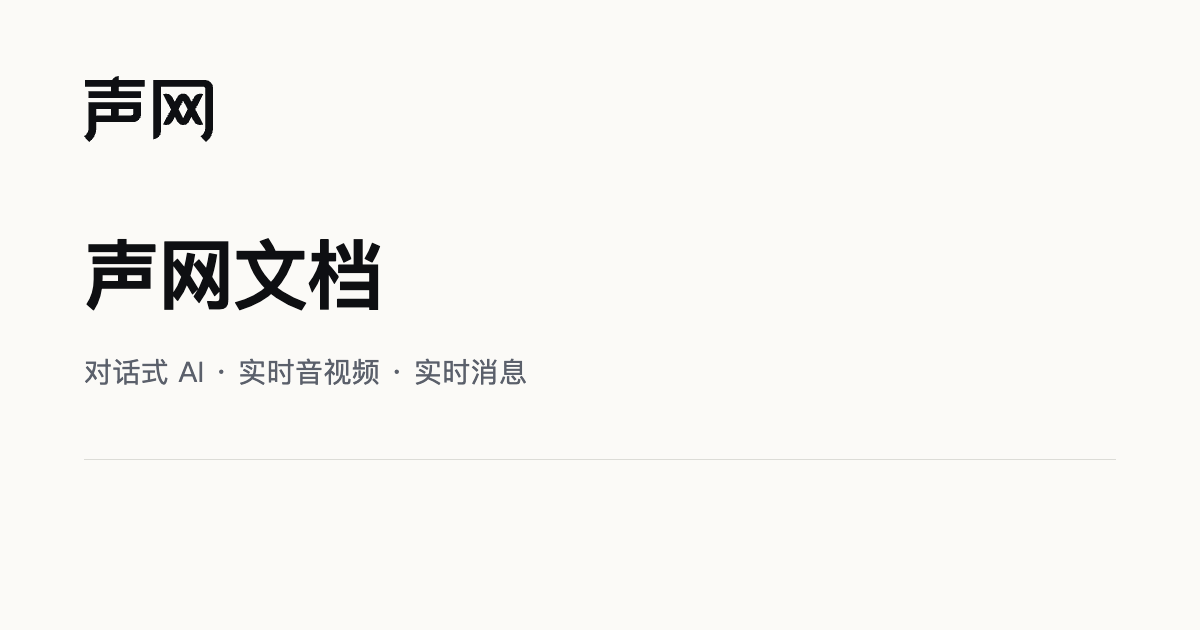
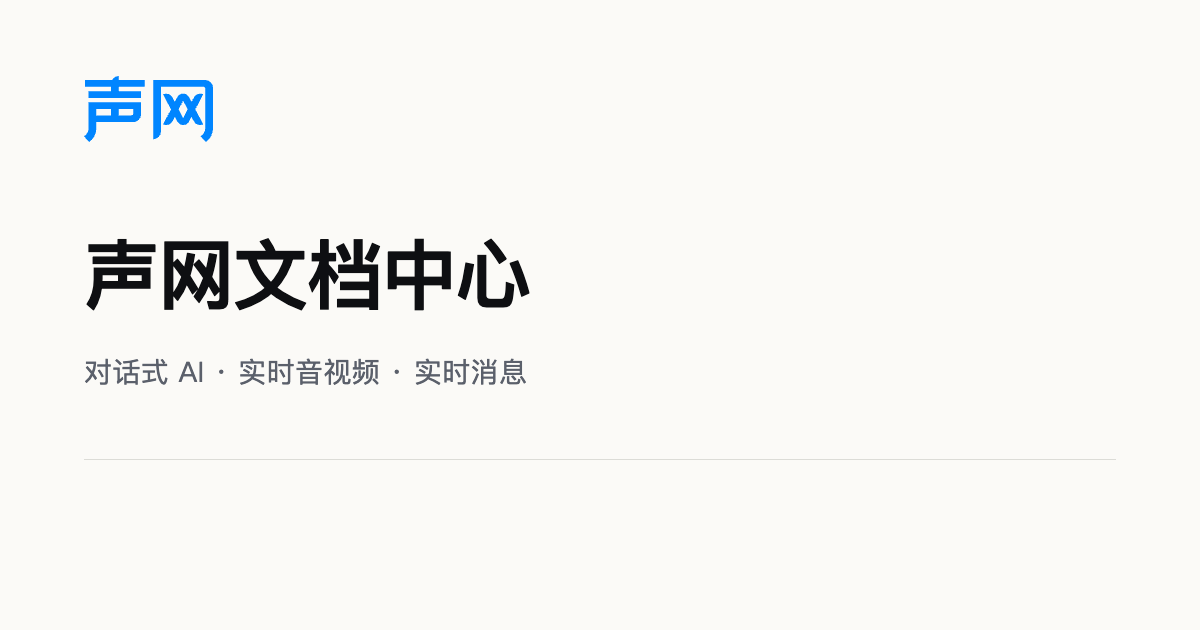
fix: align CN documentation center branding

Changed region(s): [[0.3083, 0.3619, 0.4625, 0.5127], [0.0617, 0.1206, 0.185, 0.2413]]

diff --git a/src/lib/i18n/resources/zh-CN/common.ts b/src/lib/i18n/resources/zh-CN/common.ts
@@ -1,6 +1,6 @@
 const zhCnCommon = {
   app: {
-    name: '声网文档',
+    name: '声网文档中心',
     tagline: '像产品界面一样工作的文档系统',
     endorsement: 'Developer Surface',
   },
@@ -90,7 +90,7 @@ const zhCnCommon = {
   },
   home: {
     eyebrow: '声网开发者文档',
-    title: '声网文档',
+    title: '声网文档中心',
     description: '对话式 AI / 语音通话 / 视频通话 / 互动直播 / 实时消息',
     shellLabel: 'Overview',
     askAi: 'AI 入口',
@@ -252,7 +252,7 @@ const zhCnCommon = {
       platformOverview: {
         title: '声网平台总览',
         description:
-          '声网文档以能力域优先组织，把 AI、RTC、消息、媒体服务和解决方案收敛成稳定的阅读入口，降低首次接入和长期维护的成本。。。',
+          '声网文档中心以能力域优先组织，把 AI、RTC、消息、媒体服务和解决方案收敛成稳定的阅读入口，降低首次接入和长期维护的成本。。。',
         section1: {
           title: '平台能力结构',
           body: '底层是 RTC、RTM、媒体服务等通用能力，上层是对话式 AI、会议、课堂和行业方案。文档应该反映这种分层关系，而不是直接暴露原始仓库目录。',

diff --git a/src/lib/static-seo.test.ts b/src/lib/static-seo.test.ts
@@ -42,24 +42,24 @@ describe('static SEO metadata', () => {
       title: '快速开始',
       url: '/zh-CN/ai/get-started/quick-start',
     });
-    expect(head.meta).toContainEqual({ title: '快速开始 | 声网文档' });
+    expect(head.meta).toContainEqual({ title: '快速开始 | 声网文档中心' });
     expect(head.meta).toContainEqual({
       property: 'og:site_name',
-      content: '声网文档',
+      content: '声网文档中心',
     });
     expect(head.meta).toContainEqual({
       property: 'og:image',
       content: 'https://docs.agora.io/shengwang-docs-og.png',
     });
     const homeHead = createStaticSeoHead({
-      title: '声网文档',
+      title: '声网文档中心',
       url: '/zh-CN/introduction',
     });
-    expect(homeHead.meta).toContainEqual({ title: '声网文档' });
+    expect(homeHead.meta).toContainEqual({ title: '声网文档中心' });
     expect(homeHead.meta).toContainEqual({
       name: 'description',
       content:
-        '声网开发者文档：对话式 AI、实时音视频、实时消息、SDK 下载与 API 参考。',
+        '声网文档中心：对话式 AI、实时音视频、实时消息、SDK 下载与 API 参考。',
     });
   });
 

diff --git a/src/components/docs-shell/DocsContent.test.tsx b/src/components/docs-shell/DocsContent.test.tsx
@@ -154,14 +154,14 @@ describe('DocsContent', () => {
         contentPath="zh-CN/introduction/index.mdx"
         locale="zh-CN"
         markdownUrl="/zh-CN/introduction.md"
-        title="声网文档"
+        title="声网文档中心"
         toc={[{ title: '集成语音智能体', url: '#ai', depth: 2 }]}
       />,
       '/zh-CN/introduction',
     );
 
     expect(await screen.findByTestId('docs-content-body')).toBeInTheDocument();
-    expect(screen.getByRole('heading', { name: '声网文档' })).toHaveClass(
+    expect(screen.getByRole('heading', { name: '声网文档中心' })).toHaveClass(
       'sr-only',
     );
     expect(container.querySelector('article')).toHaveClass('max-w-none');

diff --git a/src/lib/shared.ts b/src/lib/shared.ts
@@ -3,10 +3,10 @@ import { getDefaultDocsLocale, getDocsHomePath } from './site-region';
 export function getAppBranding(locale: string = getDefaultDocsLocale()) {
   return locale === 'zh-CN'
     ? {
-        name: '声网文档',
-        docsLabel: '文档',
+        name: '声网文档中心',
+        docsLabel: '文档中心',
         description:
-          '声网开发者文档：对话式 AI、实时音视频、实时消息、SDK 下载与 API 参考。',
+          '声网文档中心：对话式 AI、实时音视频、实时消息、SDK 下载与 API 参考。',
       }
     : {
         name: 'Agora Docs',

diff --git a/src/routes/-__root.test.ts b/src/routes/-__root.test.ts
@@ -39,7 +39,7 @@ describe('root head favicon metadata', () => {
     vi.stubEnv('VITE_DOCS_REGION', 'cn');
     try {
       const { rootHead: cnHead } = await import('./__root');
-      expect(cnHead.meta).toContainEqual({ title: '声网文档' });
+      expect(cnHead.meta).toContainEqual({ title: '声网文档中心' });
       expect(cnHead.links).toContainEqual({
         rel: 'icon',
         href: '/shengwang-favicon.svg',

diff --git a/src/lib/llms-index.test.ts b/src/lib/llms-index.test.ts
@@ -102,7 +102,7 @@ describe('machine-readable docs indexes', () => {
         `https://docs.example.com/${locale}/introduction.md`,
       ]);
       expect(files[0]?.content).toContain(
-        locale === 'zh-CN' ? '# 声网文档' : '# Agora Documentation',
+        locale === 'zh-CN' ? '# 声网文档中心' : '# Agora Documentation',
       );
       if (locale === 'zh-CN') {
         expect(

diff --git a/src/components/docs-shell/SiteLogoMark.tsx b/src/components/docs-shell/SiteLogoMark.tsx
@@ -24,10 +24,7 @@ export function SiteLogoMark({
     <svg
       aria-hidden={ariaHidden}
       aria-label={alt ?? '声网'}
-      className={cn(
-        'h-[22px] w-[43px] shrink-0 text-[color:var(--ink-1)]',
-        className,
-      )}
+      className={cn('h-[22px] w-[43px] shrink-0 text-[#0085ff]', className)}
       fill="currentColor"
       role="img"
       viewBox="0 0 43 22"

diff --git a/src/components/docs-shell/DocsShell.test.tsx b/src/components/docs-shell/DocsShell.test.tsx
@@ -339,7 +339,7 @@ describe('DocsShell', () => {
 
     const mainHeaderRow = await screen.findByTestId('docs-main-header-row');
     const brandHomeLink = within(mainHeaderRow).getByRole('link', {
-      name: '声网文档',
+      name: '声网文档中心',
     });
 
     expect(brandHomeLink).toHaveAttribute('href', '/zh-CN/introduction');

diff --git a/src/lib/llms-index.ts b/src/lib/llms-index.ts
@@ -233,7 +233,7 @@ function renderRootIndex(
   locale: string,
 ) {
   return [
-    locale === 'zh-CN' ? '# 声网文档' : '# Agora Documentation',
+    locale === 'zh-CN' ? '# 声网文档中心' : '# Agora Documentation',
     '',
     '> Machine-readable indexes for the complete documentation published on this site.',
     '',

diff --git a/PRODUCT.md b/PRODUCT.md
@@ -1,30 +1,53 @@
 # Product
 
-## Register
+<!-- impeccable:product-schema 1 -->
 
-product
+## Platform
+
+web
 
 ## Users
 
-Agora documentation readers and maintainers use this portal to find product guides, API references, localized content, and versioned SDK documentation while working through implementation tasks.
+Shengwang and Agora developers use this portal to find product guides, API references, SDK downloads, demos, localized content, and versioned SDK documentation while working through implementation tasks. Documentation maintainers use the same portal to publish and verify those resources.
 
 ## Product Purpose
 
 `docs-portal` presents Shengwang/Agora documentation through a Fumadocs-powered, metadata-driven shell with search, navigation, localization, API references, and version/platform-aware docs structure.
 
-## Brand Personality
+Readers should be able to choose a product, find the relevant integration path, and reach the correct SDK, example, or API reference without needing to understand the source repository layout.
 
-Clear, technical, restrained.
+## Operating Context
 
-## Anti-references
+Readers move between product overviews, quickstarts, implementation guides, API references, and troubleshooting content. Search, product navigation, platform selection, and version selection support this workflow on desktop and mobile browsers.
 
-Avoid marketing-site ornament, oversized decorative cards in task surfaces, custom controls that differ from standard shadcn/radix affordances, and dense selector-heavy CSS for component skins.
+AI programming tools can consume published Markdown and LLMS indexes. These exports should describe the same documentation as the reader-facing site.
 
-## Design Principles
+## Capabilities and Constraints
+
+- Documentation content is maintained under `content/docs/{en,zh-CN}`; navigation is driven by section metadata. OpenAPI sources are maintained under `content/openapi`.
+- The `cn` deployment publishes Chinese documentation; the `global` deployment publishes the other locales. Publication scope and presentation branding do not automatically change technical identifiers, repositories, or link destinations.
+- The Chinese homepage provides product and resource entry points, including SDK downloads and demos. Its visible content starts with those entry points, without a repeated page title, article copy/AI controls, or a right-hand table of contents. Individual documentation pages retain their reading and copy tools.
+- Package names, commands, API identifiers, and URLs remain technically accurate when surrounding labels and prose are localized.
+
+## Brand Commitments
+
+- The Chinese site is **声网文档中心**. The header pairs the Shengwang wordmark with **文档中心**; page titles and sharing metadata use the full site name.
+- The English site remains **Agora Docs**, with the Agora wordmark and **Docs** header label.
+- The Chinese wordmark uses the official SVG geometry from [the current Shengwang documentation site](https://doc.shengwang.cn/). Its brand blue is `#0085FF`, matching that site's `--brand-600` / `--blue-60` value. Keep the logo blue in both light and dark themes rather than inheriting the body text color.
+- Voice remains clear, technical, and restrained.
+
+## Evidence on Hand
+
+- Product guides and localized navigation: `content/docs/en`, `content/docs/zh-CN`.
+- Structured API contracts: `content/openapi`.
+- Chinese brand assets: `public/shengwang-logo.svg`, `public/shengwang-favicon.svg`, `public/shengwang-docs-og.png`; the shared header/footer wordmark is rendered by `src/components/docs-shell/SiteLogoMark.tsx`.
+- English wordmark: `public/agora-logo.png`.
+
+## Product Principles
 
 - Keep docs chrome quiet so content and navigation remain primary.
-- Use familiar product UI patterns for search, dropdowns, tabs, sidebars, and mobile sheets.
-- Prefer metadata-driven behavior and shared primitives over one-off shell code.
+- Use familiar product UI patterns for search, dropdowns, tabs, sidebars, and mobile sheets; avoid marketing-site ornament and oversized decorative cards in documentation workflows.
+- Prefer metadata-driven behavior and existing shadcn/Radix primitives over one-off controls or selector-heavy component skins.
 - Keep localization and version switching explicit, crawlable, and accessible.
 - Preserve a compact, scannable layout for repeated documentation workflows.
 
